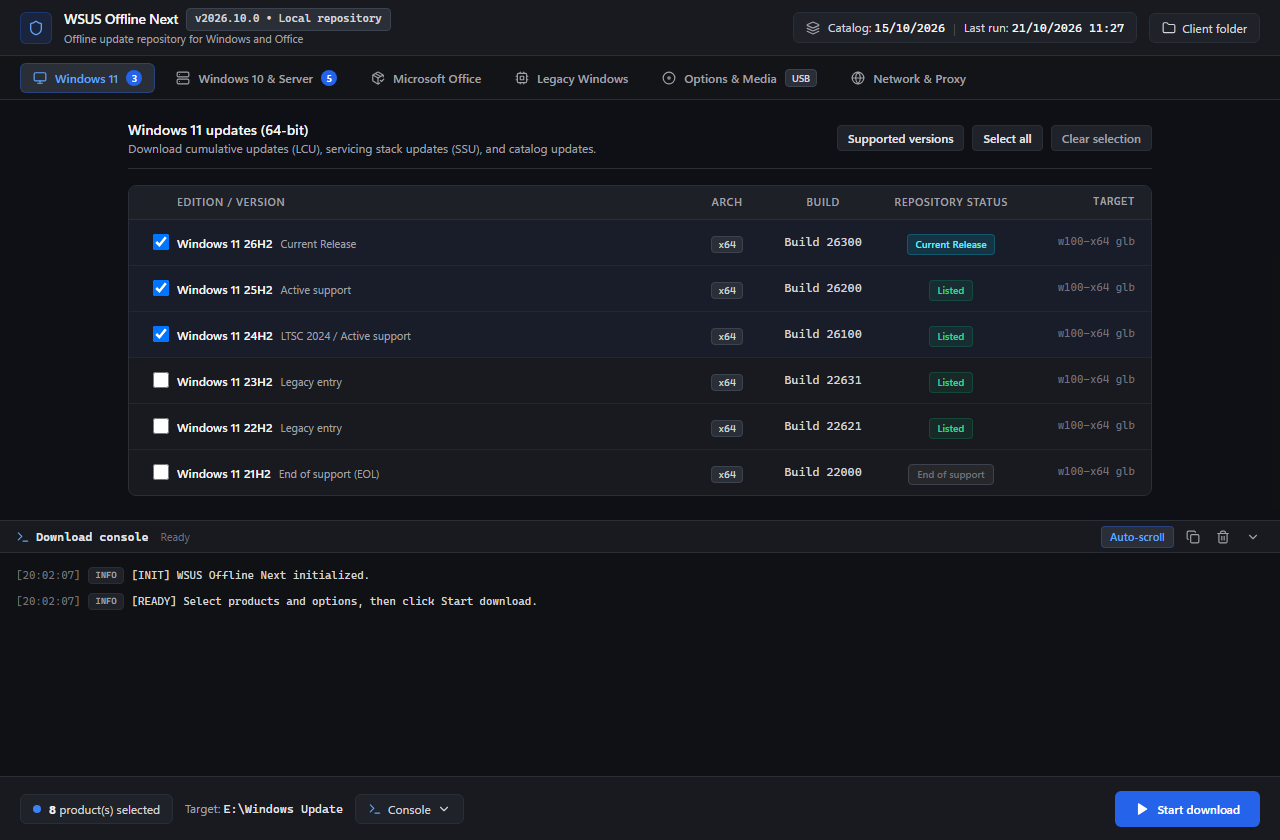
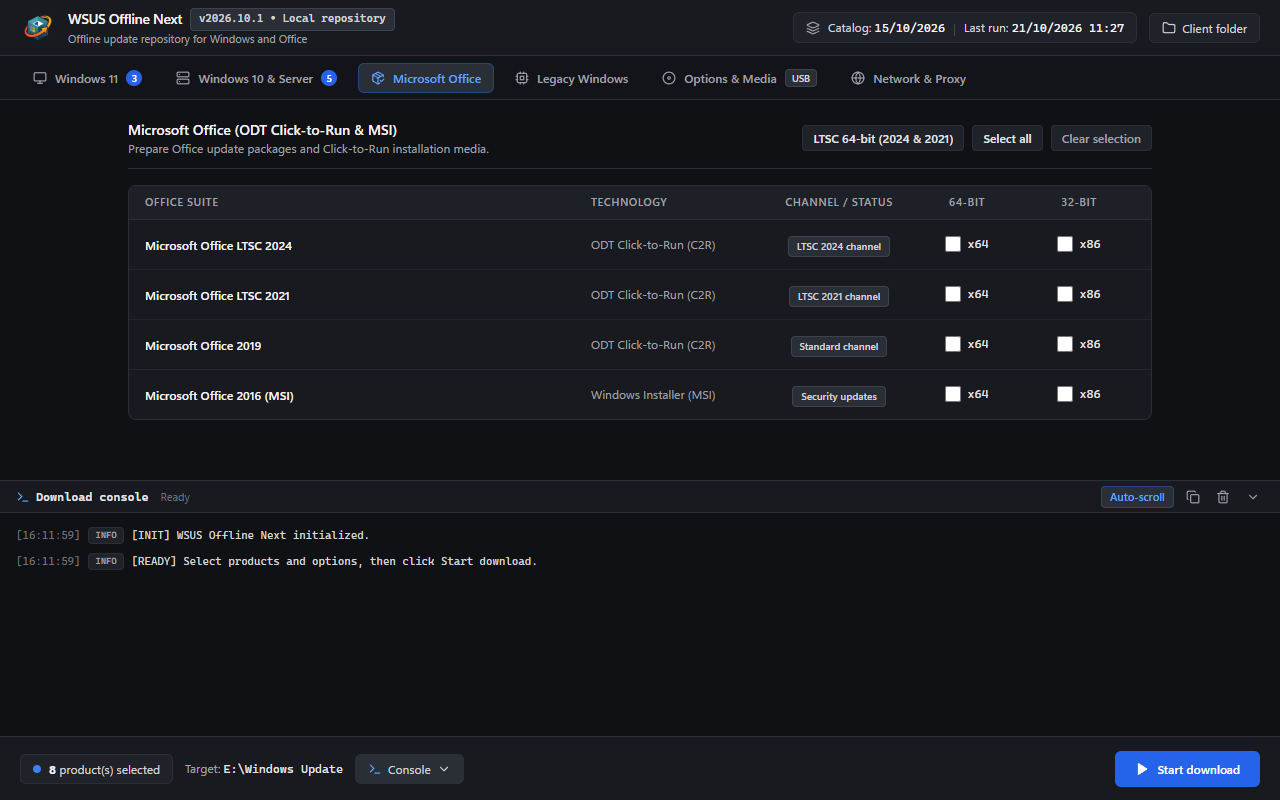
docs(release): add 2026.10.1 release notes and refresh screenshots
Write the 2026.10.1 section covering the new logo, branded Generator
header, refreshed screenshots, and the fixed release packaging.
Retake all six README screenshot assets against the branded v2026.10.1
interface.

diff --git a/RELEASE_NOTES.md b/RELEASE_NOTES.md
@@ -2,6 +2,30 @@
 
 [Back to the project](README.md) · [Quick start](README.md#quick-start) · [Support development](https://liberapay.com/Jeremie/) · [LinkedIn](https://www.linkedin.com/in/jeremiedufault)
 
+## 2026.10.1
+
+**Status:** current release.
+
+### Highlights
+
+- **New project logo everywhere:** a dedicated WSUS Offline Next logo (update cube and refresh arrow) now appears in the README header, as the GitHub social preview, and as the application icon of all six executables — the adaptive launchers, the modern .NET 8 applications, and the legacy AutoIt GUIs.
+- **Branded Generator interface:** the modern Generator header replaces the placeholder shield with the project logo, and the application window icon follows the same mark.
+- **Refreshed screenshots:** all README screenshot assets were retaken against the branded interface, so documentation matches what the applications actually look like.
+
+### Release packaging
+
+- Fixed release packaging on Windows: `MakeRelease.cmd` now resolves 7-Zip through the scoop installation and excludes development and workspace content from the published archive.
+
+### Requirements and upgrade guidance
+
+- Same requirements as 2026.10.0: Windows 10 or 11 (x64) for the generator, .NET 8 and WebView2 for the modern interface, with automatic fallback to the legacy Win32 GUI otherwise.
+- Drop-in replacement: replace the previous tree with this one; configuration (`UpdateGenerator.ini`, `UpdateInstaller.ini`) and existing download repositories are preserved. No configuration migration is required.
+
+### Validation
+
+- Full rebuild of both React frontends, both .NET 8 single-file hosts, and all four AutoIt binaries against the 2026.10.1 version metadata.
+- Icons verified by extraction from the rebuilt executables; the modern Generator interface was exercised in a browser to confirm the branded header and favicon.
+
 ## 2026.10.0
 
 **Status:** current repository snapshot. Publication and release packaging are tracked separately.
